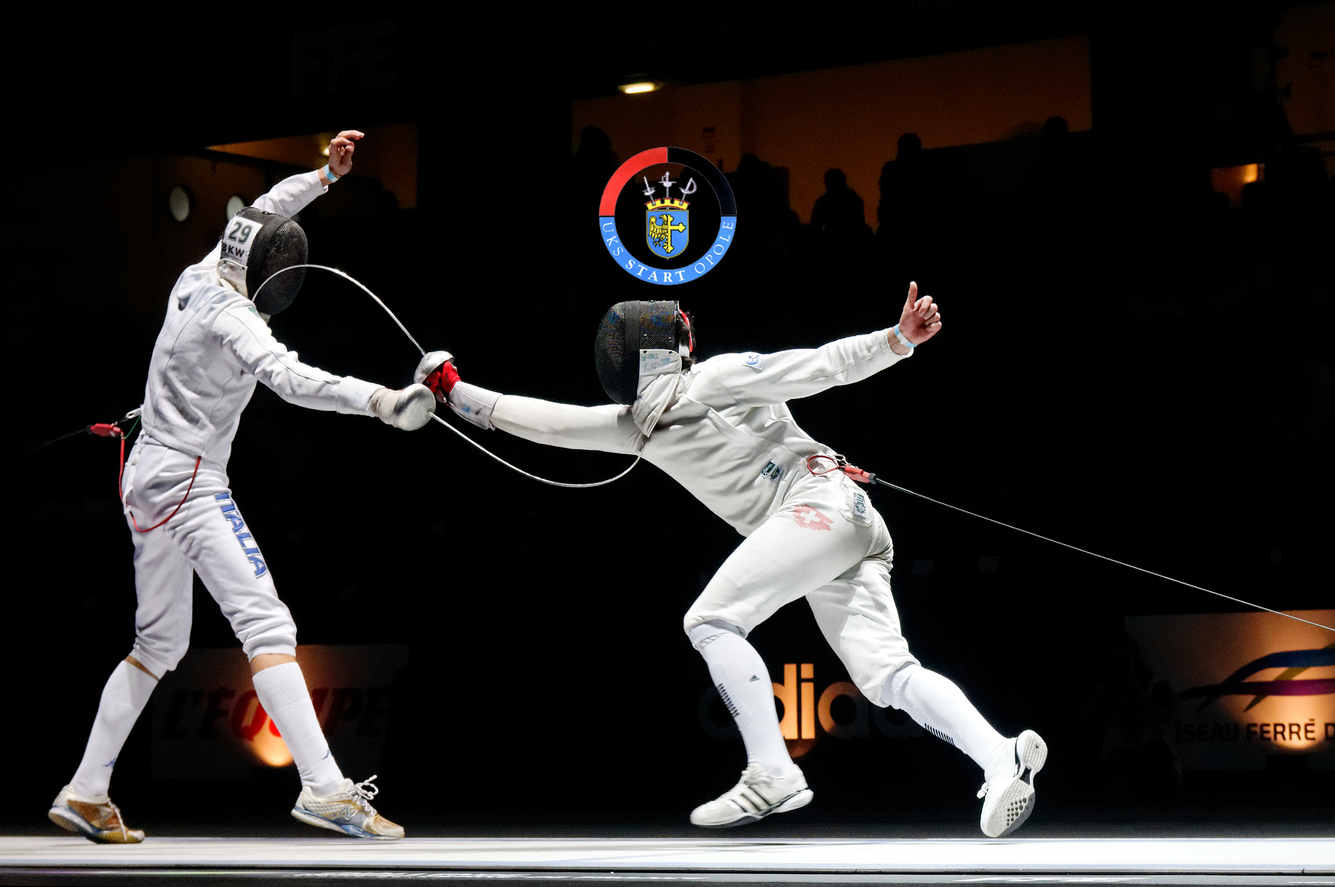
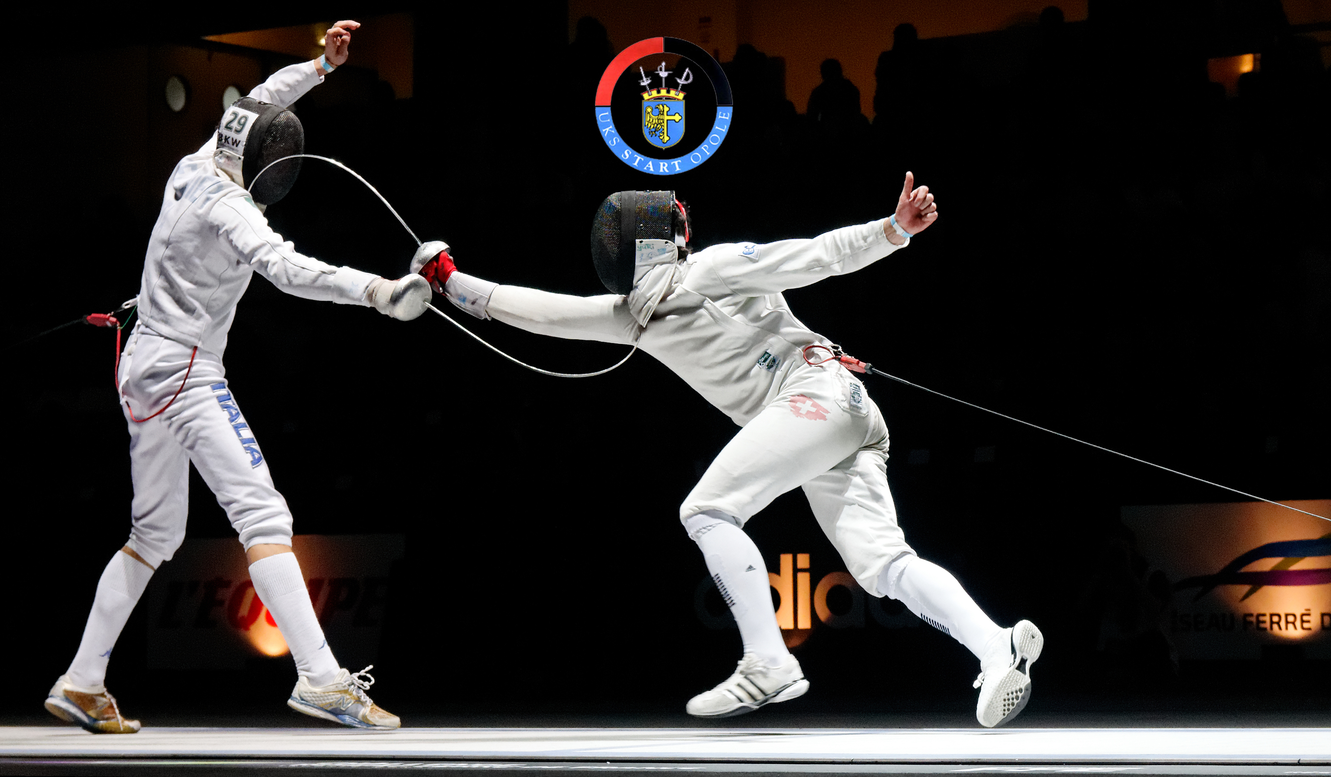
Visual adjustments to top background

diff --git a/src/main/webapp/resources/static/css/style.css b/src/main/webapp/resources/static/css/style.css
@@ -90,12 +90,12 @@ body, html {
 /* Obrazek startowy */
 
 #bg_div {
-    background: url('../img/bg.jpg') no-repeat center;
+    background: url('../img/bg.jpg') no-repeat center top;
     -webkit-background-size: cover;
     -moz-background-size: cover;
     -o-background-size: cover;
     background-size: cover;
-    height: 700px;
+    height: 500px;
 }
 
 /* Kolejne sekcje strony */
